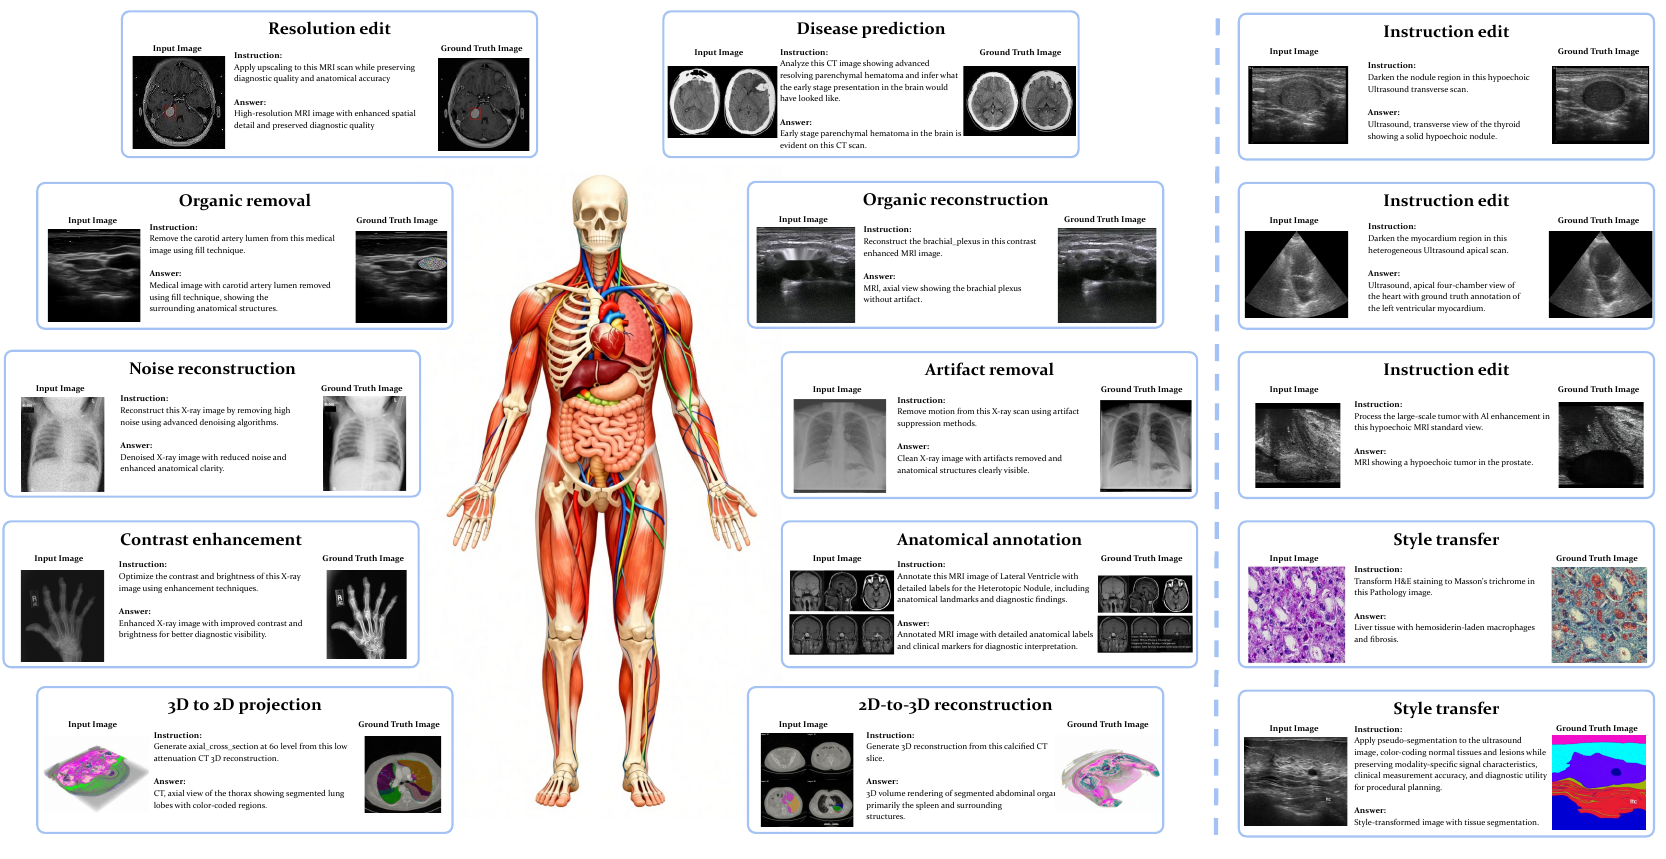
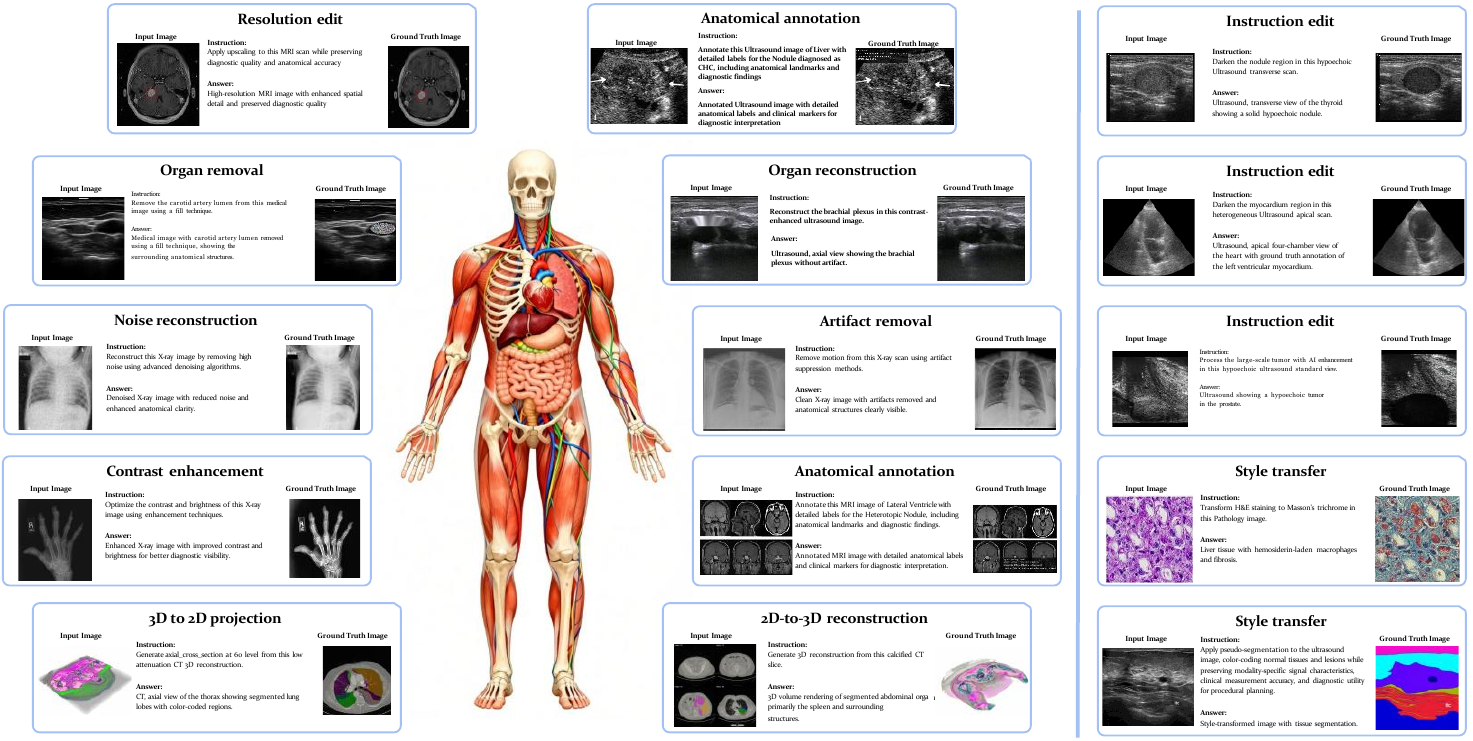
Sync MedGEN preprint figures and task count

Changed region(s): [[0.0, 0.0, 0.9993, 1.0]]

diff --git a/medgen/index.html b/medgen/index.html
@@ -3,7 +3,7 @@
 <head>
   <meta charset="utf-8">
   <meta name="viewport" content="width=device-width, initial-scale=1">
-  <meta name="description" content="MedGEN-Bench is an expert-reviewed benchmark for open-ended multimodal medical generation, with 6,422 image-text pairs across six modalities, 15 clinical tasks, and 26 named subtasks.">
+  <meta name="description" content="MedGEN-Bench is an expert-reviewed benchmark for open-ended multimodal medical generation, with 6,422 image-text pairs across six modalities, 15 clinical tasks, and 27 named subtasks.">
   <meta name="keywords" content="MedGEN-Bench, multimodal medical generation, medical image editing, medical VQA, benchmark, vision-language models">
   <meta property="og:title" content="MedGEN-Bench">
   <meta property="og:description" content="A contextually entangled benchmark for open-ended multimodal medical generation.">
@@ -106,22 +106,28 @@
           <div class="gallery-frame">
             <button class="gallery-arrow gallery-prev" type="button" data-carousel-prev aria-label="Previous overview figure">‹</button>
             <div class="gallery-slides">
-              <div class="gallery-slide is-active" data-carousel-slide data-carousel-label="Figure 1 · Representative tasks" role="group" aria-roledescription="slide" aria-label="Overview figure 1 of 3">
+              <div class="gallery-slide is-active" data-carousel-slide data-carousel-label="Figure 1 · Benchmark motivation" role="group" aria-roledescription="slide" aria-label="Overview figure 1 of 4">
                 <figure class="overview-figure">
-                  <img src="static/images/figures/benchmark-overview.png" width="1666" height="859" alt="Representative MedGEN-Bench task cards arranged around an anatomical figure, spanning restoration, organ manipulation, cross-dimensional reconstruction, disease prediction, anatomical annotation, instruction-guided editing, and style transfer.">
-                  <figcaption><strong>Figure 1.</strong> MedGEN-Bench organizes image-grounded clinical tasks around six imaging modalities, pairing each input with an open-ended instruction and a reference output.</figcaption>
+                  <img src="static/images/paper/overview-fig1.png?v=20260909" width="1800" height="670" alt="Three recurring limitations of medical visual benchmarks: query-image misalignment, closed-ended formats, and text-centric output paradigms.">
+                  <figcaption><strong>Figure 1.</strong> Three recurring limitations of existing medical visual benchmarks motivate image-grounded, open-ended multimodal evaluation.</figcaption>
                 </figure>
               </div>
-              <div class="gallery-slide" data-carousel-slide data-carousel-label="Figure 2 · Benchmark motivation" role="group" aria-roledescription="slide" aria-label="Overview figure 2 of 3" hidden>
+              <div class="gallery-slide" data-carousel-slide data-carousel-label="Figure 2 · Representative tasks" role="group" aria-roledescription="slide" aria-label="Overview figure 2 of 4" hidden>
                 <figure class="overview-figure">
-                  <img src="static/images/paper/overview-fig1.png" width="1440" height="520" alt="Three recurring limitations of medical visual benchmarks: query-image misalignment, closed-ended formats, and text-centric output paradigms.">
-                  <figcaption><strong>Figure 2.</strong> Three recurring limitations of existing medical visual benchmarks motivate image-grounded, open-ended multimodal evaluation.</figcaption>
+                  <img src="static/images/figures/benchmark-overview.png?v=20260909" width="1473" height="741" alt="Representative MedGEN-Bench task cards arranged around an anatomical figure, spanning restoration, organ manipulation, cross-dimensional reconstruction, anatomical annotation, instruction-guided editing, and style transfer.">
+                  <figcaption><strong>Figure 2.</strong> MedGEN-Bench organizes image-grounded clinical tasks around six imaging modalities, pairing each input with an open-ended instruction and a reference output.</figcaption>
                 </figure>
               </div>
-              <div class="gallery-slide" data-carousel-slide data-carousel-label="Figure 3 · Benchmark statistics" role="group" aria-roledescription="slide" aria-label="Overview figure 3 of 3" hidden>
+              <div class="gallery-slide" data-carousel-slide data-carousel-label="Figure 3 · Benchmark statistics" role="group" aria-roledescription="slide" aria-label="Overview figure 3 of 4" hidden>
                 <figure class="overview-figure">
-                  <img src="static/images/paper/overview-fig3.png" width="1438" height="702" alt="MedGEN-Bench task and modality statistics with instruction and answer length distributions.">
+                  <img src="static/images/paper/overview-fig3.png?v=20260909" width="1320" height="763" alt="MedGEN-Bench task and modality statistics with instruction and answer length distributions.">
                   <figcaption><strong>Figure 3.</strong> Benchmark composition by task and modality, with instruction- and answer-length distributions.</figcaption>
+                </figure>
+              </div>
+              <div class="gallery-slide" data-carousel-slide data-carousel-label="Figure 4 · Construction pipeline" role="group" aria-roledescription="slide" aria-label="Overview figure 4 of 4" hidden>
+                <figure class="overview-figure">
+                  <img src="static/images/figures/construction-pipeline.png?v=20260909" width="1730" height="773" alt="MedGEN-Bench construction pipeline showing preprocessing, image-pair synthesis, text-pair synthesis, and post-processing through automatic review and human refinement.">
+                  <figcaption><strong>Figure 4.</strong> MedGEN-Bench construction pipeline: preprocessing, image-pair synthesis, context-augmented text-pair synthesis, and post-processing through automatic checks and expert review.</figcaption>
                 </figure>
               </div>
             </div>
@@ -133,9 +139,10 @@
                 <button class="gallery-dot is-active" type="button" data-carousel-dot="0" aria-label="Show overview figure 1" aria-pressed="true" aria-current="true"></button>
                 <button class="gallery-dot" type="button" data-carousel-dot="1" aria-label="Show overview figure 2" aria-pressed="false"></button>
                 <button class="gallery-dot" type="button" data-carousel-dot="2" aria-label="Show overview figure 3" aria-pressed="false"></button>
+                <button class="gallery-dot" type="button" data-carousel-dot="3" aria-label="Show overview figure 4" aria-pressed="false"></button>
               </div>
             </div>
-            <p class="gallery-status visually-hidden" data-carousel-status aria-live="polite">1 / 3 · Figure 1 · Representative tasks</p>
+            <p class="gallery-status visually-hidden" data-carousel-status aria-live="polite">1 / 4 · Figure 1 · Benchmark motivation</p>
           </div>
         </div>
       </div>
@@ -145,7 +152,7 @@
       <div class="container project-column">
         <h2 class="title is-3 has-text-centered">Abstract</h2>
         <div class="content project-summary">
-          <p>Medical vision-language models (VLMs) are increasingly expected to support clinical workflows through the generation of diagnostic text and relevant medical images. However, existing medical visual benchmarks exhibit three recurring limitations: query–image misalignment arising from queries that are weakly grounded in specific image instances, closed-ended formats that narrow the answer space and encourage shortcut-based prediction, and text-centric output paradigms that limit the evaluation of image-generation and image-editing capabilities. To address these limitations, we introduce MEDGEN-BENCH, a benchmark for open-ended multimodal medical generation. The evaluation snapshot reported in this manuscript comprises 6,422 expert-reviewed image–text pairs spanning 6 canonical imaging modalities, 15 clinical tasks, and 26 named subtasks. It includes 1,100 Visual Question Answering (VQA) pairs, 3,872 Image Editing pairs, and 1,450 Contextual Multimodal Generation pairs. MEDGEN-BENCH centers on contextual entanglement, defined as the dependence of an instruction’s intended output on the particular image instance rather than on task wording alone. The benchmark operationalizes this concept through image-grounded instructions and extends evaluation to open-ended multimodal outputs. Its tiered evaluation protocol combines reproducible, reference-based fidelity and similarity measures with a structured, checklist-guided assessment by a medical VLM judge. Neither global similarity scores nor VLM-based judgments are treated as evidence of clinical correctness. We evaluate 10 compositional frameworks, 2 dedicated image-editing models, 3 unified models, and 5 VLMs. The results show that image-output tasks remain unsaturated, with contextual multimodal generation appearing more challenging than image editing under the reported metrics. Contextual augmentation increases the mean image–instruction similarity from 0.273 to 0.372, while a 1,000-case medical-expert audit shows moderate agreement between the judge scores and clinician ratings. The source code and manifest for the reported evaluation snapshot will be made publicly available on GitHub.</p>
+          <p>Medical vision-language models (VLMs) are increasingly expected to support clinical workflows through the generation of diagnostic text and relevant medical images. However, existing medical visual benchmarks exhibit three recurring limitations: query–image misalignment arising from queries that are weakly grounded in specific image instances, closed-ended formats that narrow the answer space and encourage shortcut-based prediction, and text-centric output paradigms that limit the evaluation of image-generation and image-editing capabilities. To address these limitations, we introduce MEDGEN-BENCH, a benchmark for open-ended multimodal medical generation. The evaluation snapshot reported in this manuscript comprises 6,422 expert-reviewed image–text pairs spanning 6 canonical imaging modalities, 15 clinical tasks, and 27 named subtasks. It includes 1,100 Visual Question Answering (VQA) pairs, 3,872 Image Editing pairs, and 1,450 Contextual Multimodal Generation pairs. MEDGEN-BENCH centers on contextual entanglement, defined as the dependence of an instruction’s intended output on the particular image instance rather than on task wording alone. The benchmark operationalizes this concept through image-grounded instructions and extends evaluation to open-ended multimodal outputs. Its tiered evaluation protocol combines reproducible, reference-based fidelity and similarity measures with a structured, checklist-guided assessment by a medical VLM judge. Neither global similarity scores nor VLM-based judgments are treated as evidence of clinical correctness. We evaluate 10 compositional frameworks, 2 dedicated image-editing models, 3 unified models, and 5 VLMs. The results show that image-output tasks remain unsaturated, with contextual multimodal generation appearing more challenging than image editing under the reported metrics. Contextual augmentation increases the mean image–instruction similarity from 0.273 to 0.372, while a 1,000-case medical-expert audit shows moderate agreement between the judge scores and clinician ratings. The source code and manifest for the reported evaluation snapshot will be made publicly available on GitHub.</p>
         </div>
       </div>
     </section>
@@ -153,7 +160,7 @@
     <section class="section content-section examples-section" id="examples">
       <div class="container project-column">
         <h2 class="title is-3 has-text-centered">Representative Examples</h2>
-        <p class="section-deck gallery-intro has-text-centered">MedGEN-Bench evaluates open-ended multimodal medical generation through image-grounded, contextually entangled instructions: the intended answer or transformation depends on the particular input image rather than task wording alone. Its 6,422 expert-reviewed pairs reference 10,703 unique images across six canonical modalities, 15 clinical tasks, and 26 named subtasks, unifying visual question answering, instruction-guided image editing, and contextual multimodal generation.</p>
+        <p class="section-deck gallery-intro has-text-centered">MedGEN-Bench evaluates open-ended multimodal medical generation through image-grounded, contextually entangled instructions: the intended answer or transformation depends on the particular input image rather than task wording alone. Its 6,422 expert-reviewed pairs reference 10,703 unique images across six canonical modalities, 15 clinical tasks, and 27 named subtasks, unifying visual question answering, instruction-guided image editing, and contextual multimodal generation.</p>
 
         <div class="benchmark-gallery sample-gallery" data-sample-gallery role="region" aria-label="Curated MedGEN-Bench review sample gallery" tabindex="0">
           <p class="visually-hidden">Ten records are selected at random when the page loads. The five-page gallery rotates automatically and shows two examples per page. Hover or focus an image to reveal its text, and use the previous and next buttons, page selectors, or left and right arrow keys to browse.</p>
@@ -876,8 +883,8 @@
 
         <div class="finding-grid">
           <figure class="paper-figure ablation-figure">
-            <img src="static/images/figures/contextual-augmentation.png" alt="Semantic-alignment analysis showing similarity gains across six benchmarks and a shift in mean image-instruction similarity from 0.273 to 0.372.">
-            <figcaption><strong>Figure 4.</strong> Semantic-alignment analysis on 985 complete pairs. The upper panel reports gains against six VQA benchmarks, and the lower panel compares templates with augmented instructions. PR denotes pass rate; μ and σ denote mean and standard deviation.</figcaption>
+            <img src="static/images/figures/contextual-augmentation.png?v=20260909" alt="Semantic-alignment analysis showing similarity gains across six benchmarks and a shift in mean image-instruction similarity from 0.273 to 0.372.">
+            <figcaption><strong>Figure 5.</strong> Semantic-alignment analysis on 985 complete pairs. The upper panel reports gains against six VQA benchmarks, and the lower panel compares templates with augmented instructions. PR denotes pass rate; μ and σ denote mean and standard deviation.</figcaption>
           </figure>
 
           <div class="content findings-copy">

diff --git a/_pages/about.md b/_pages/about.md
@@ -18,12 +18,12 @@ My research interests include medical vision-language models, medical image edit
 
 # Selected Projects
 
-<div class='paper-box'><div class='paper-box-image'><div><div class="badge">MedGEN-Bench</div><a href='/medgen/'><img src='/medgen/static/images/figures/benchmark-overview.png' alt="MedGEN-Bench overview figure" width="100%"></a></div></div>
+<div class='paper-box'><div class='paper-box-image'><div><div class="badge">MedGEN-Bench</div><a href='/medgen/'><img src='/medgen/static/images/figures/benchmark-overview.png?v=20260909' alt="MedGEN-Bench overview figure" width="100%"></a></div></div>
 <div class='paper-box-text' markdown="1">
 
 ### [MedGEN-Bench: A Contextually Entangled Benchmark](/medgen/)
 
-MedGEN-Bench is a benchmark for open-ended multimodal medical generation. The reported evaluation snapshot contains **6,422 expert-reviewed image–text pairs** spanning six canonical imaging modalities, 15 clinical tasks, and 26 named subtasks, including visual question answering, image editing, and contextual multimodal generation.
+MedGEN-Bench is a benchmark for open-ended multimodal medical generation. The reported evaluation snapshot contains **6,422 expert-reviewed image–text pairs** spanning six canonical imaging modalities, 15 clinical tasks, and 27 named subtasks, including visual question answering, image editing, and contextual multimodal generation.
 
 [**Open project page**](/medgen/) · [**Paper**](https://arxiv.org/abs/2511.13135) · [**Dataset**](https://huggingface.co/datasets/Jack04810/MedGEN-Bench)
 </div>
